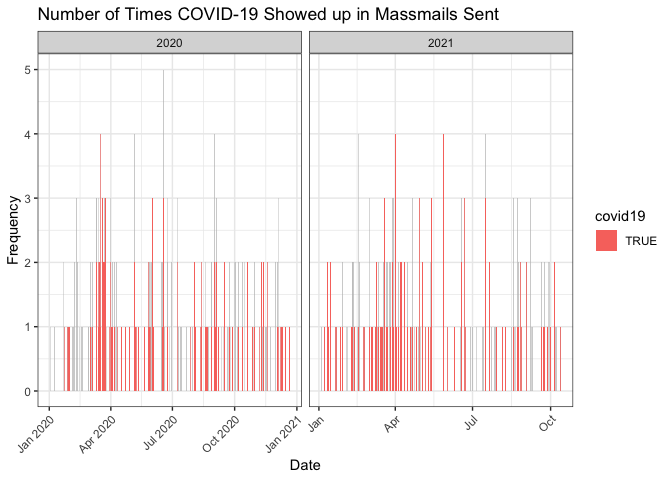
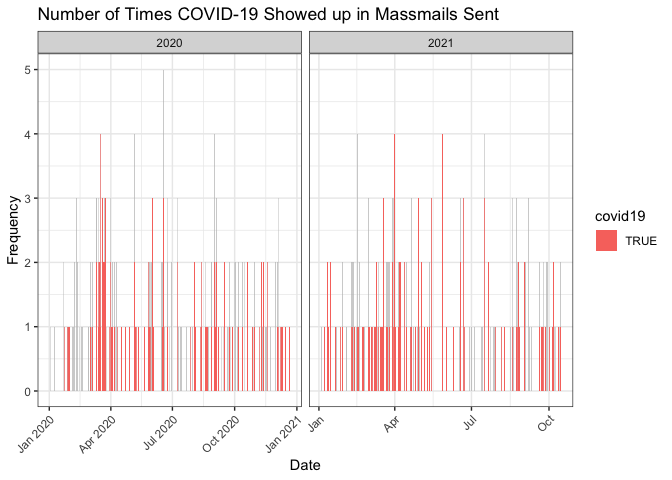
Re-build README.Rmd and Graphs

diff --git a/README.md b/README.md
@@ -17,7 +17,7 @@ The archive may be viewed here:
 
 <https://massmail.illinois.edu/massmailArchive>
 
-Data has **1435** observations and **7** variables:
+Data has **1437** observations and **7** variables:
 
   - `datetime`: Date and time when the email was sent in the form of
     `YYYY-MM-DD HMS` with either CDT or CST.
@@ -210,15 +210,15 @@ head(most_popular_words, 10) %>%
 
 | word        | freq |
 | :---------- | ---: |
-| university  | 1238 |
-| students    | 1142 |
-| campus      | 1072 |
-| covid       |  820 |
-| illinois    |  809 |
-| community   |  670 |
-| faculty     |  657 |
-| health      |  572 |
-| staff       |  527 |
+| university  | 1241 |
+| students    | 1143 |
+| campus      | 1075 |
+| covid       |  821 |
+| illinois    |  811 |
+| community   |  672 |
+| faculty     |  660 |
+| health      |  573 |
+| staff       |  529 |
 | information |  515 |
 
 #### Wordcloud
